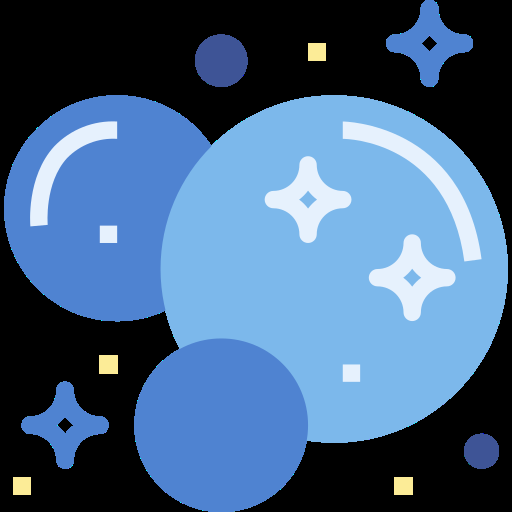
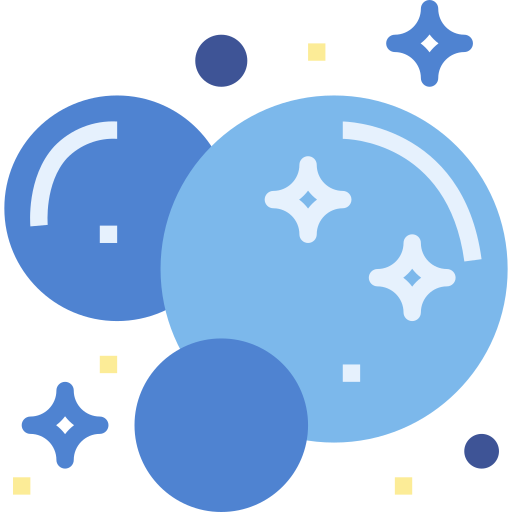
Fix transparent PNGs destroyed by the image optimiser
optimize_images.py called convert("RGB") on every PNG, which flattens the
alpha channel to solid black. Two images were cut-outs with transparency:

- male-wearing-apron-...-clean.png (the intro section photo) rendered as a
  black box with colour fringing around the subjects
- bubbles.png (the header logo)

Both restored from fa2479e with alpha intact, and optimise() now detects an
alpha channel and keeps RGBA rather than flattening. Transparent PNGs are
only ever resized, never re-encoded to a format without alpha.

diff --git a/optimize_images.py b/optimize_images.py
@@ -42,17 +42,34 @@ def role(path):
     return None
 
 
+def has_alpha(im):
+    return im.mode in ("RGBA", "LA") or (
+        im.mode == "P" and "transparency" in im.info)
+
+
 def optimise(path, max_w, quality=QUALITY):
+    """Resize and recompress in place.
+
+    ⚠ NEVER call convert("RGB") on an image with an alpha channel. Doing so
+    flattens transparency to solid black — it destroyed the cut-out hero PNG
+    and the logo the first time this ran. Transparent PNGs keep RGBA and are
+    only ever resized, never re-encoded to a format without alpha.
+    """
     before = os.path.getsize(path)
     with Image.open(path) as im:
         fmt = im.format
+        transparent = has_alpha(im)
         w, h = im.size
         if w > max_w:
             im = im.resize((max_w, round(h * max_w / w)), Image.LANCZOS)
-        if fmt == "PNG":
-            # These are photographs saved as PNG — huge for no benefit.
-            # Keep the extension (markup references it) but store JPEG-quality
-            # data by flattening and re-encoding as an optimised PNG.
+
+        if transparent:
+            # keep the alpha channel; quantising to a palette keeps the file
+            # small without touching the cut-out edges
+            if im.mode != "RGBA":
+                im = im.convert("RGBA")
+            im.save(path, "PNG", optimize=True)
+        elif fmt == "PNG":
             im = im.convert("RGB")
             im.save(path, "PNG", optimize=True)
         else:
